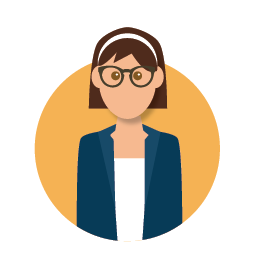
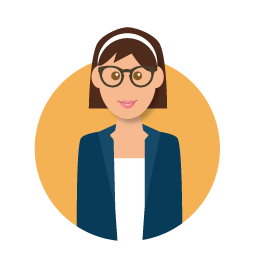
Se coloco el nuevo diseño al header de SAFE

diff --git a/src/app/safe/common/header/safeHeader.component.html b/src/app/safe/common/header/safeHeader.component.html
@@ -1,59 +1,167 @@
-<div class="position: inherit !important;width: 100%;" [ngClass]="{'blue': globalService.aguila,'orange': !globalService.aguila}">
-	<mdb-navbar SideClass="navbar navbar-expand-lg" [containerInside]="false">
-		<mdb-navbar-brand mdbDropdown>
-			<a class="navbar-brand" style="border-right: solid white;" mdbDropdownToggle mdbWavesEffect  class="dropdown-toggle waves-light">
-				<img src="{{srclogo}}" height="35" alt="" />
-				<strong style="color:white;" class="mr-4 ml-3">{{nameplanta}}</strong>
-			</a>
-			<div class="dropdown-menu dropdown-primary">
-				<a class="dropdown-item" (click)="cambioPlantaSol()" *ngIf="globalService.aguila">Sol</a>
-				<a class="dropdown-item" (click)="cambioPlantaAguila()" *ngIf="!globalService.aguila">Aguila</a>
-				<a class="dropdown-item" (click)="changePassword()">Cambiar Contraseña</a>
-				<div class="divider dropdown-divider"></div>
-				<a class="dropdown-item" (click)="logout()">Salir</a>
-			</div>
+<div class="myheader sticky-top" [ngClass]="{'myblue': globalService.aguila,'myorange': !globalService.aguila}">
+	<!--Navbar-->
+	<mdb-navbar SideClass="navbar navbar-expand-lg navbar-dark" [containerInside]="false">
+
+		<!-- Navbar brand -->
+		<mdb-navbar-brand>
+			<div class="mybrand">
+				<img src="{{srclogo}}" height="35" width="45" alt="" />
+				<strong class="nameplanta mr-4 ml-3">{{nameplanta}}</strong>
+				<a class="navbar-brand" *ngIf="globalService.aguila" ><mdb-icon fas icon="exchange-alt" class="mr-2" (click)="cambioPlantaSol()"></mdb-icon></a>
+				<a class="navbar-brand" *ngIf="!globalService.aguila"><mdb-icon fas icon="exchange-alt" class="mr-2" (click)="cambioPlantaAguila()"></mdb-icon></a>
+			</div>	
+			<mdb-icon fas icon="bars" (click)="toggleMenu()" class="myicobarstoggle"></mdb-icon>
 		</mdb-navbar-brand>
+	  
+		<!-- Collapsible content -->
 		<links>
-
-			<!-- Links -->
 			<ul class="navbar-nav mr-auto">
-			  <li class="nav-item active">
-				<button type="button" aria-label="Toggle sidenav" mat-icon-button (click)="toggleMenu()" style="color:white;">
-					<mat-icon aria-label="Side nav toggle icon">menu</mat-icon>
-				</button>
-			  </li>
-			  
-			  
- 
-
-			  <li class="nav-item">
-					<form action="" class="mysearch">
-						<input type="search" name="" id="" placeholder="Search your content...">
-						<i class="fa fa-search"></i>
-					</form>
-			  </li>
+				<li class="nav-item">
+					<a class="nav-link">
+						<div class="btn-group">
+							<form action="" class="mysearch">
+								<input type="search" name="" id="" placeholder="Search your content...">
+								<i class="fa fa-search"></i>
+							</form>
+						</div>
+					</a>
+				</li>
 			</ul>
-			<!-- Links -->
-		
+	  
 			<ul class="navbar-nav ml-auto nav-flex-icons">
-			  <li class="nav-item">
-				<a class="nav-link">
-					<mdb-icon far icon="envelope" style="color: #fff"></mdb-icon>
-				</a>
-			  </li>
-			  <li class="nav-item">
-				<a class="nav-link">
-					<mdb-icon far icon="bell" style="color: #fff"></mdb-icon>
-				</a>
-			  </li>
-			  <li class="nav-item">
-				<a class="nav-link" style="padding: 3px;" (click)="changeModule()">
-					<img src="../../../assets/img/logo_safe-simple.png" height="30" alt="" /> 
-					<span style="color: #ccc"> Safe</span>
-				</a>
-			  </li>
+				<!--Tools-->
+				<li class="nav-item">
+					<a class="nav-link">
+						<div class="btn-group" mdbDropdown>
+							<mdb-icon fas icon="tools" dropdownToggle></mdb-icon>
+							<div class="dropdown-menu dropdown-menu-right">
+								<div class="col">
+									<p class="dropdownMenuheader">Herramientas</p>
+								</div>
+								<a class="dropdown-item" (click)="changePassword()">
+									<table>
+										<tr>
+											<td><span class="lnr lnr-lock"></span>&nbsp;&nbsp;&nbsp;</td>
+											<td><h4>Cambiar Contraseña</h4></td>
+										</tr>
+									</table>
+								</a>
+								<div class="divider dropdown-divider"></div>
+								<a class="dropdown-item" (click)="logout()">
+									<table>
+										<tr>
+											<td>
+												<span class="lnr lnr-power-switch"></span>&nbsp;&nbsp;&nbsp;
+											</td>
+											<td>
+												<h4>Salir</h4>
+											</td>
+										</tr>
+									</table>
+								</a>
+							</div>
+						</div>
+					</a>
+				</li>
+
+				<li class="nav-item">
+					<a class="nav-link">
+						<div class="btn-group" mdbDropdown>
+							<mdb-icon far icon="envelope" dropdownToggle></mdb-icon>
+							<div *dropdownMenu class="dropdown-menu dropdown-menu-right " role="menu">
+								<div class="col">
+									<p class="dropdownMenuheader">Emails</p>
+								</div>
+								<a class="dropdown-item" >
+									<table>
+										<tr>
+											<td>
+												<i class="ti-announcement"></i>&nbsp;&nbsp;&nbsp;
+											</td>
+											<td>
+												<h4>Email</h4>
+												<h5>Cargar</h5>
+											</td>
+										</tr>
+									</table>
+								</a>
+								<div class="divider dropdown-divider"></div>
+								<a class="dropdown-item" (click)="changePassword()">
+									<table>
+										<tr>
+											<td>
+												<i class="ti-announcement"></i>&nbsp;&nbsp;&nbsp;
+											</td>
+											<td>
+												<h4>Email</h4>
+												<h5>Reiniciar</h5>
+											</td>
+										</tr>
+									</table>
+								</a>
+								<div class="divider dropdown-divider"></div>
+								<a class="dropdown-item text-right" (click)="changePassword()">
+									<span class="dropdownMenufooter">
+										Ver Todos
+									</span>
+								</a>
+							</div>
+						</div>
+					</a>
+				</li>
+				<li class="nav-item">
+					<a class="nav-link">
+						<div class="btn-group" mdbDropdown>
+							<mdb-icon far icon="bell" dropdownToggle></mdb-icon>
+							<div *dropdownMenu class="dropdown-menu dropdown-menu-right " role="menu">
+								<div class="col">
+									<p class="dropdownMenuheader">Notificaciones</p>
+								</div>
+								<a class="dropdown-item" >
+									<table>
+										<tr>
+											<td>
+												<i class="ti-announcement"></i>&nbsp;&nbsp;&nbsp;
+											</td>
+											<td>
+												<h4>Notificaciones 1</h4>
+												<h5>Cargar</h5>
+											</td>
+										</tr>
+									</table>
+								</a>
+								<div class="divider dropdown-divider"></div>
+								<a class="dropdown-item">
+									<table>
+										<tr>
+											<td>
+												<i class="ti-announcement"></i>&nbsp;&nbsp;&nbsp;
+											</td>
+											<td>
+												<h4>Notificaciones 2</h4>
+												<h5>Reiniciar</h5>
+											</td>
+										</tr>
+									</table>
+								</a>
+								<div class="divider dropdown-divider"></div>
+								<a class="dropdown-item text-right" (click)="changePassword()">
+									<span class="dropdownMenufooter">
+										Ver Todos
+									</span>
+								</a>
+							</div>
+						</div>
+					</a>
+				</li>
 			</ul>
-		  </links>
-		  <!-- Collapsible content -->
+		  
+		  	<span class="navbar-text white-text">
+				<img src="../../../assets/img/logo_safe-simple.png" class="logomodheader"  (click)="changeModule()" /> 
+				<span class="nameplanta mr-4">Safe</span>
+			</span>
+		</links>
+		<!-- Collapsible content -->
 	</mdb-navbar>
+	<!--/.Navbar-->
 </div>

diff --git a/src/app/safe/home/safeHome.component.html b/src/app/safe/home/safeHome.component.html
@@ -4,17 +4,20 @@
     <!-- /Header -->
     <div id="body">
         <!-- Aside -->
-        <aside id="columna" [ngStyle]="{'width':aside_open ? '250px' : '60px' }">
+        <aside id="columna" [ngStyle]="{'width':aside_open ? '230px' : '60px' }">
             <div>
                 <div class="row">
                     
                     <div class="col p-0">
                         <div class="user-panel">
                             <div class="image">
-                                <img src="../../../assets/images/avatar2.png" alt="" class="img-user">
-                            </div>
+                                <img *ngIf="getgender()===1" src="../../../assets/images/avatar2.png" alt="" class="img-user">
+                                <img *ngIf="getgender()===2" src="../../../assets/images/womenAvatar.png" alt="" class="img-user">
+                            </div><br>
                             <div class="info-user" *ngIf="aside_open">
-                                <p>Bienvenido, {{getNameUser()}}</p>
+                                <p  *ngIf="getgender()===1">Bienvenido,</p>
+                                <p  *ngIf="getgender()===2">Bienvenida,</p>
+                                <p>{{getNameUser()}}</p>
                                 <p class="f-10">No tienes tareas pendientes</p>
                             </div>
                             <img src="../../../assets/images/avatar-bg.png" alt="" class="bg-user">
@@ -26,7 +29,7 @@
         </aside>
         <!-- /Aside -->
 
-        <section id="seccion" [ngStyle]="{'width':aside_open ? 'calc(100% - 250px)' : 'calc(100% - 60px)' }">
+        <section id="seccion" [ngStyle]="{'width':aside_open ? 'calc(100% - 230px)' : 'calc(100% - 60px)' }">
 
             <div class="container-fluid">
                 <!--  CUERPO DEL COMPONENTE -->
@@ -36,7 +39,7 @@
             </div>
         </section>
     </div>
-    <footer id="pie"[ngClass]="{'blue': globalService.aguila,'orange': !globalService.aguila}" >
-        Derechos Reservados &copy;
+    <footer id="pie" [ngClass]="{'myblue': globalService.aguila,'myorange': !globalService.aguila}">
+      Derechos Reservados &copy;
     </footer>
 </div>

diff --git a/src/app/compliance/home/complianceHome.component.html b/src/app/compliance/home/complianceHome.component.html
@@ -11,9 +11,11 @@
                     <div class="image">
                       <img *ngIf="getgender()===1" src="../../../assets/images/avatar2.png" alt="" class="img-user">
                       <img *ngIf="getgender()===2" src="../../../assets/images/womenAvatar.png" alt="" class="img-user">
-                    </div> 
+                    </div><br>
                     <div class="info-user" *ngIf="aside_open">
-                        <p>Bienvenido, {{getNameUser()}}</p>
+                        <p  *ngIf="getgender()===1">Bienvenido,</p>
+                        <p  *ngIf="getgender()===2">Bienvenida,</p>
+                        <p>{{getNameUser()}}</p>
                         <p class="f-10">No tienes tareas pendientes</p>
                     </div>
                     <img src="../../../assets/images/avatar-bg.png" alt="" class="bg-user">

diff --git a/src/app/safe/common/header/safeHeader.component.ts b/src/app/safe/common/header/safeHeader.component.ts
@@ -13,7 +13,7 @@ import { SecurityService } from 'src/app/core/services/security.service';
 export class SafeHeaderComponent implements OnInit {
   
   srclogo="../../../assets/images/skins/shape_1.png";
-  nameplanta="Aguila";
+  nameplanta="EAT";
   constructor(public globalService: GlobalService,
     private eventService: EventService,
     private securityService: SecurityService,
@@ -72,7 +72,7 @@ export class SafeHeaderComponent implements OnInit {
   cambioTema(){
     this.globalService.aguila = !this.globalService.aguila;
     this.srclogo = this.globalService.aguila ? "../../../assets/images/skins/shape_1.png":"../../../assets/images/skins/logobotonsol.png";
-    this.nameplanta = this.globalService.aguila ? "Aguila":"Sol";
+    this.nameplanta = this.globalService.aguila ? "EAT":"EST";
   }
 
 }

diff --git a/src/app/safe/home/safeHome.component.ts b/src/app/safe/home/safeHome.component.ts
@@ -149,6 +149,16 @@ export class SafeHomeComponent implements OnInit {
     let name = this.securityService.getNameUser() +" "+ this.securityService.getLastNameUser();
     return name;
   }
+     
+  getgender(){
+    let generoId = JSON.parse(localStorage.getItem('user'));
+    //console.log("generoId");
+    //console.dir(generoId);  
+    generoId = generoId['generoId'];
+    //console.log("generoId");
+    //console.dir(generoId);
+    return generoId;
+  }
   private clickMenu(event: EventMessage): void {
     this.viewContainerRef.clear();
     switch (event.id) {
